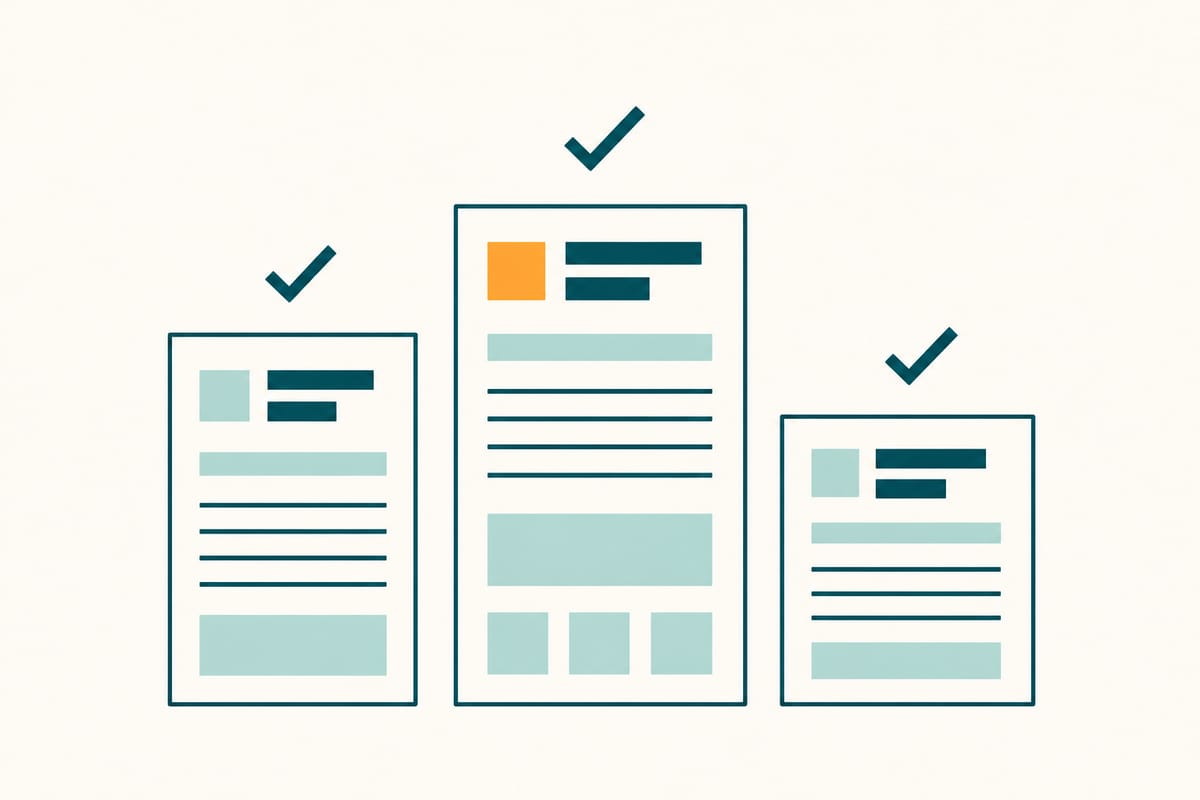
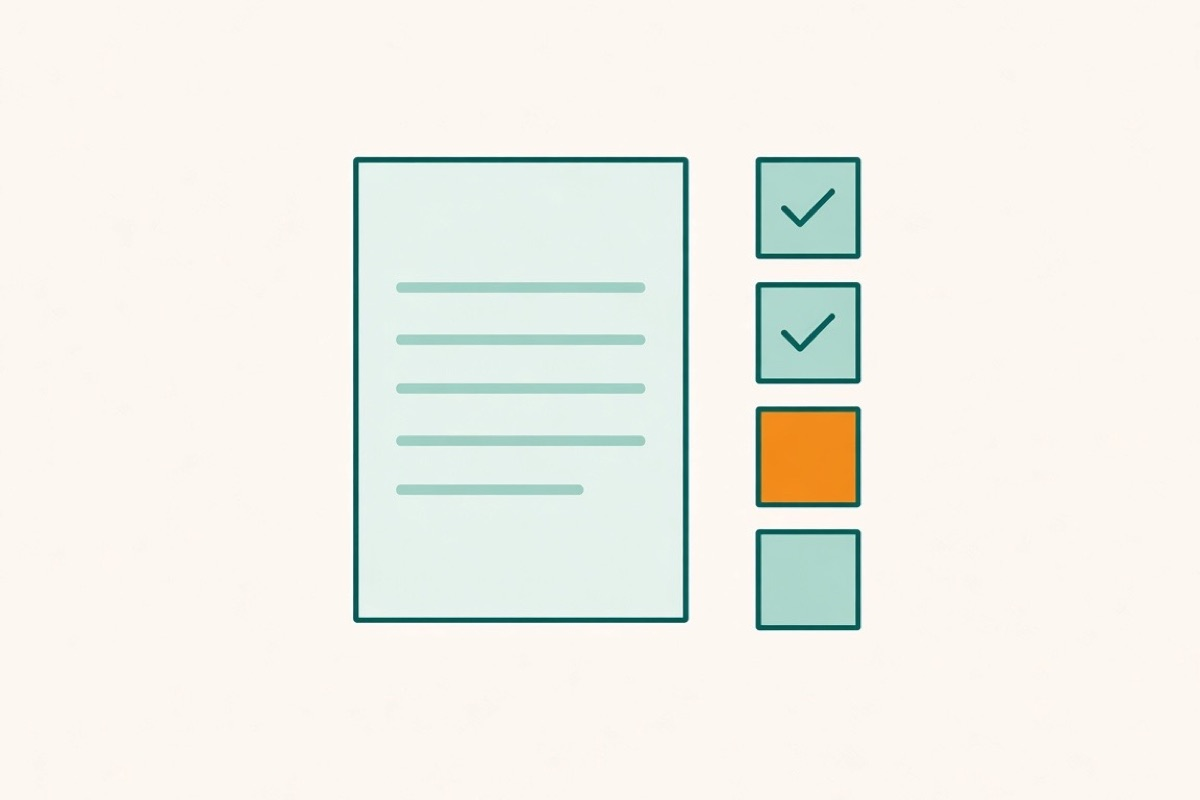
Give each blog post its own cover image.
The newest posts were still using the shared social preview, and the comparison covers no longer matched their alt text.

Changed region(s): [[0.1233, 0.1562, 0.8633, 0.9062], [0.5242, 0.125, 0.555, 0.1562]]

diff --git a/content/blog/how-to-tailor-cv-to-job-description.js b/content/blog/how-to-tailor-cv-to-job-description.js
@@ -13,7 +13,7 @@ export const meta = {
   tags: ["tailoring", "job description", "keywords", "resume"],
   image: "/blog/how-to-tailor-cv-to-job-description.jpg",
   imageAlt:
-    "Flat illustration of a CV and a job listing merging together with interlocking edges",
+    "Flat illustration of a short requirements list beside a CV with the summary marked for editing",
   // The bare "tailor cv to job description" is owned by
   // /tailor-cv-from-job-link, which is the transactional page for it. This post
   // targets the how-to intent instead, so the two do not compete.

diff --git a/content/blog/chatgpt-prompts-to-tailor-resume.js b/content/blog/chatgpt-prompts-to-tailor-resume.js
@@ -13,7 +13,7 @@ export const meta = {
   tags: ["tailoring", "chatgpt", "prompts", "resume", "job description"],
   image: "/blog/chatgpt-prompts-to-tailor-resume.jpg",
   imageAlt:
-    "Flat illustration of a chat panel interlocking with a CV document, representing ChatGPT prompts used to tailor a resume",
+    "Flat illustration of a prompt card beside a CV whose top line is being rewritten",
   keywords: [
     "how to tailor resume to job description using chatgpt",
     "how to tailor resume to job description using claude",

diff --git a/content/blog/cover-letter-from-job-description.js b/content/blog/cover-letter-from-job-description.js
@@ -14,7 +14,7 @@ export const meta = {
   tags: ["cover letter", "job description", "tailoring", "ai"],
   image: "/blog/cover-letter-from-job-description.jpg",
   imageAlt:
-    "Flat illustration of a job posting and a cover letter connecting with a single orange accent",
+    "Flat illustration of a cover letter with three paragraphs, each tied to a line in the job posting",
   keywords: [
     "ai cover letter generator from resume and job description",
     "how to tailor cover letter to job description",

diff --git a/content/blog/best-ai-resume-tailoring-tools-2026.js b/content/blog/best-ai-resume-tailoring-tools-2026.js
@@ -13,7 +13,7 @@ export const meta = {
   tags: ["comparison", "tools", "tailoring", "ai"],
   image: "/blog/best-ai-resume-tailoring-tools-2026.jpg",
   imageAlt:
-    "Flat illustration of three CV documents at different heights with checkmarks, representing a tailoring-tools comparison",
+    "Flat illustration of a plain CV above a tailored CV, with one section changed",
   keywords: [
     "best ai to tailor resume to job description",
     "best ai resume tailoring tools 2026",

diff --git a/content/blog/best-free-ats-resume-checkers-2026.js b/content/blog/best-free-ats-resume-checkers-2026.js
@@ -13,7 +13,7 @@ export const meta = {
   tags: ["comparison", "ats", "tools", "resume"],
   image: "/blog/best-free-ats-resume-checkers-2026.jpg",
   imageAlt:
-    "Flat illustration of three CV documents at different heights with checkmarks, representing an ATS checker comparison",
+    "Flat illustration of a CV beside a checklist, with some boxes checked and one still open",
   keywords: [
     "best free ats resume checker",
     "best ats resume checker 2026",

diff --git a/content/blog/fitmycv-vs-chatgpt-resume-tailoring.js b/content/blog/fitmycv-vs-chatgpt-resume-tailoring.js
@@ -13,7 +13,7 @@ export const meta = {
   tags: ["comparison", "chatgpt", "tailoring", "tools"],
   image: "/blog/fitmycv-vs-chatgpt-resume-tailoring.jpg",
   imageAlt:
-    "Flat illustration of a chat panel and a CV document joined by a single orange connector",
+    "Flat illustration of a stack of chat bubbles beside a separate CV",
   keywords: [
     "best way to tailor resume to job description",
     "chatgpt vs resume tailor",

diff --git a/content/blog/best-ai-resume-builders-2026.js b/content/blog/best-ai-resume-builders-2026.js
@@ -13,7 +13,7 @@ export const meta = {
   tags: ["comparison", "tools", "ats", "resume"],
   image: "/blog/best-ai-resume-builders-2026.jpg",
   imageAlt:
-    "Flat illustration of three CV documents standing at different heights like a comparison podium",
+    "Flat illustration of a CV page being assembled from blocks, with empty slots still open",
   keywords: [
     "best ai resume builder 2026",
     "best ai resume builders",

diff --git a/content/blog/job-application-letter.js b/content/blog/job-application-letter.js
@@ -12,7 +12,7 @@ export const meta = {
   category: "Cover Letters",
   series: "cover-letters",
   tags: ["cover letter", "application letter", "job application", "templates"],
-  image: "/social-preview.jpg",
+  image: "/blog/job-application-letter.jpg",
   imageAlt:
     "Illustration of a one page job application letter with the role, the proof and the closing highlighted",
   keywords: [

diff --git a/content/blog/how-to-email-a-job-application.js b/content/blog/how-to-email-a-job-application.js
@@ -12,7 +12,7 @@ export const meta = {
   category: "Job Search",
   series: "job-search-funnel",
   tags: ["job search", "applications", "email templates", "cv"],
-  image: "/social-preview.jpg",
+  image: "/blog/how-to-email-a-job-application.jpg",
   imageAlt:
     "Illustration of a job application email with a clear subject line and a CV attached as a PDF",
   keywords: [

diff --git a/content/blog/skills-to-put-on-a-resume.js b/content/blog/skills-to-put-on-a-resume.js
@@ -12,7 +12,7 @@ export const meta = {
   category: "CV Tips",
   series: "cv-foundations",
   tags: ["cv tips", "resume skills", "resume keywords", "ats"],
-  image: "/social-preview.jpg",
+  image: "/blog/skills-to-put-on-a-resume.jpg",
   imageAlt:
     "Illustration of a resume skills section next to a job posting with matching terms highlighted",
   keywords: [
